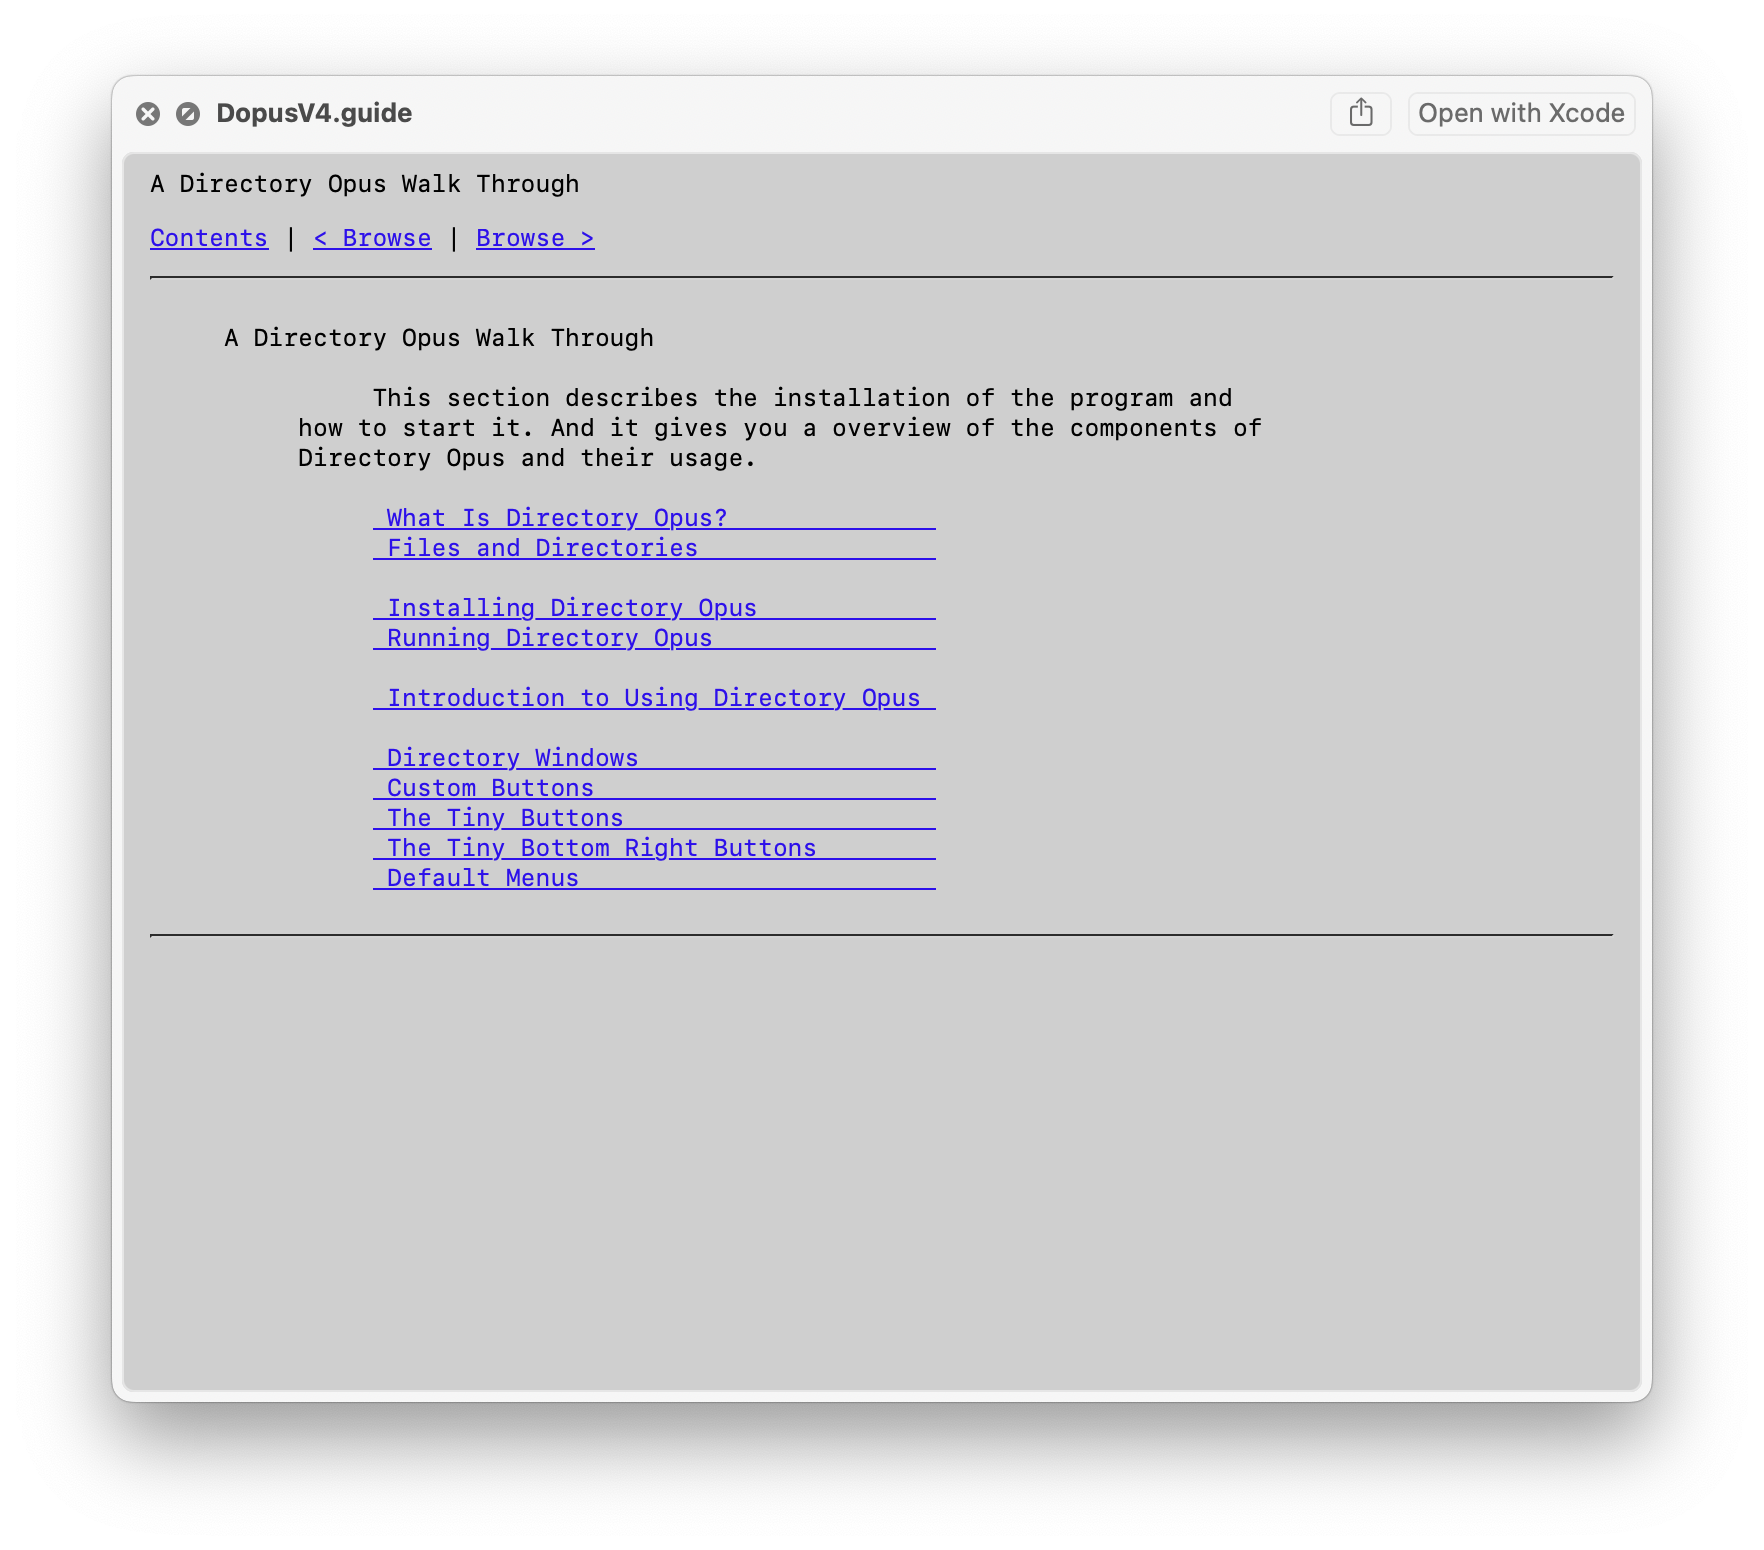
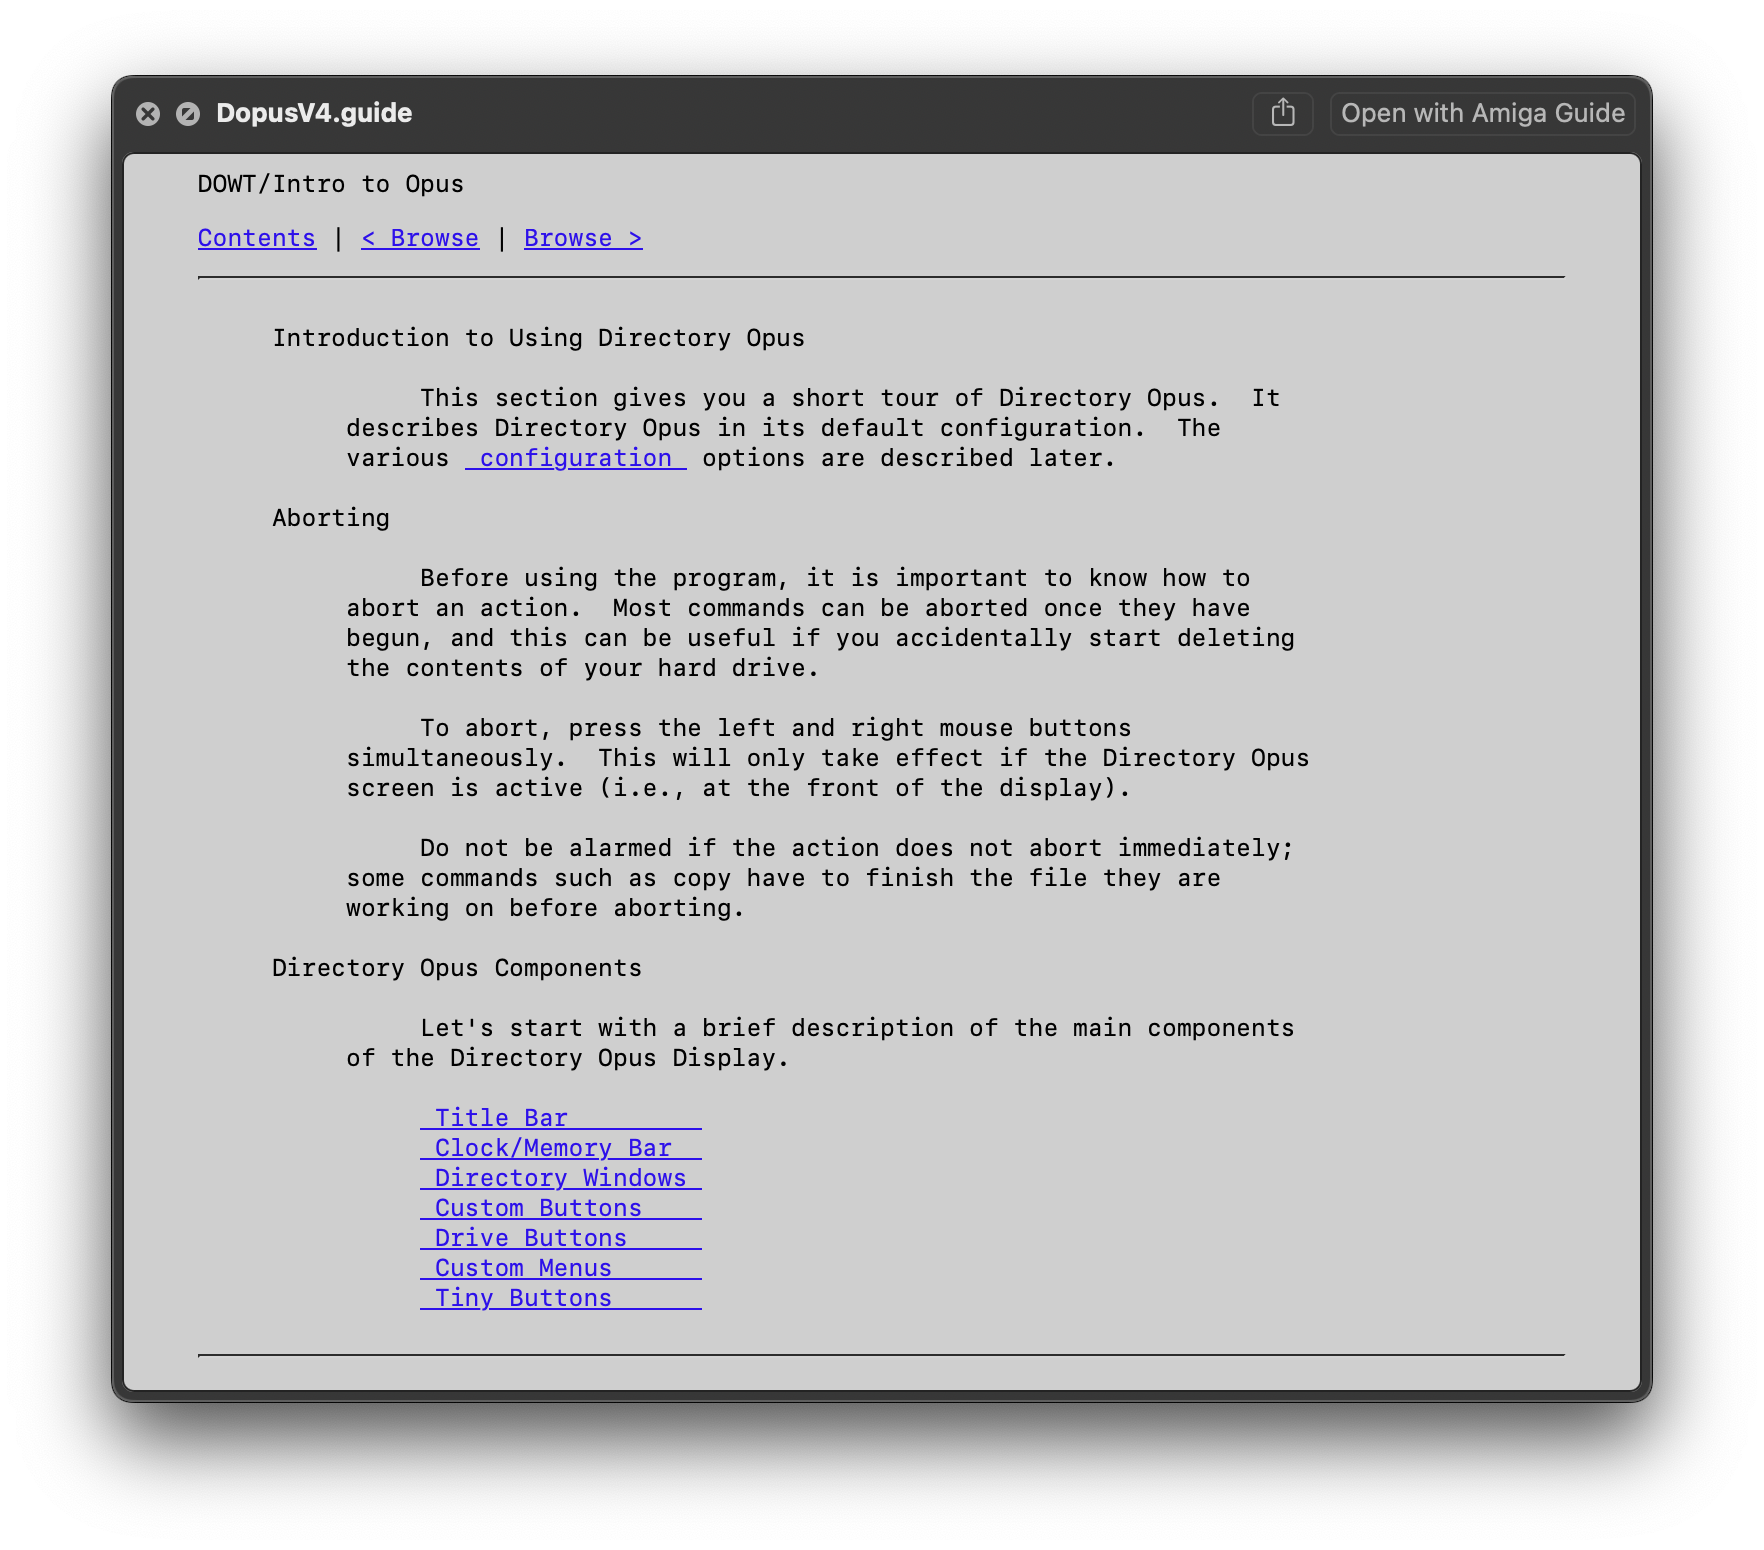
Draw Finder thumbnails as Amiga windows.
Declare public.image so Quick Look asks our generator, and re-sign
nested appexes when copying Debug builds to /Applications.

diff --git a/Shared/GuideThumbnail.swift b/Shared/GuideThumbnail.swift
@@ -1,0 +1,253 @@
+import AppKit
+import Foundation
+
+enum GuideThumbnail {
+    struct Preview {
+        var title: String
+        var rawLines: [String]
+
+        func lines(fontSize: CGFloat) -> [NSAttributedString] {
+            rawLines.map { GuideThumbnail.attributedLine($0, fontSize: fontSize) }
+        }
+    }
+
+    static func preview(fromGuideAt url: URL) -> Preview {
+        let text = firstChunk(at: url)
+        return preview(from: text, fallbackTitle: url.deletingPathExtension().lastPathComponent)
+    }
+
+    static func preview(from text: String, fallbackTitle: String) -> Preview {
+        var title = fallbackTitle
+        var rawLines: [String] = []
+        var inNode = false
+        for rawLine in text.split(omittingEmptySubsequences: false, whereSeparator: \.isNewline) {
+            var line = String(rawLine)
+            if line.hasSuffix("\r") { line.removeLast() }
+            let trimmed = line.trimmingCharacters(in: .whitespaces)
+            let lower = trimmed.lowercased()
+            if lower.hasPrefix("@node ") {
+                if inNode { break }
+                title = nodeTitle(from: trimmed) ?? title
+                inNode = true
+                continue
+            }
+            if inNode, lower.hasPrefix("@endnode") { break }
+            guard inNode else { continue }
+            if trimmed.hasPrefix("@"), !trimmed.hasPrefix("@{") { continue }
+            rawLines.append(line)
+        }
+        while rawLines.first?.trimmingCharacters(in: .whitespaces).isEmpty == true {
+            rawLines.removeFirst()
+        }
+        if rawLines.count > 16 {
+            rawLines = Array(rawLines.prefix(16))
+        }
+        return Preview(title: title, rawLines: rawLines)
+    }
+
+    static func draw(_ preview: Preview, in size: CGSize) {
+        guard size.width > 1, size.height > 1 else { return }
+        if NSGraphicsContext.current?.isFlipped != true {
+            let transform = NSAffineTransform()
+            transform.translateX(by: 0, yBy: size.height)
+            transform.scaleX(by: 1, yBy: -1)
+            transform.concat()
+        }
+
+        let s = min(size.width, size.height)
+        let window = NSRect(origin: .zero, size: size)
+        let bevel = max(1, (s / 128).rounded())
+        fillBevelled(window, fill: NSColor(calibratedRed: 0.81, green: 0.81, blue: 0.81, alpha: 1), bevel: bevel, raised: true)
+
+        let inner = window.insetBy(dx: bevel, dy: bevel)
+        let titleBarHeight = max(9, min(26, (s * 0.08).rounded()))
+        let titleBar = NSRect(x: inner.minX, y: inner.minY, width: inner.width, height: titleBarHeight)
+        NSColor(calibratedRed: 0.0, green: 0.33, blue: 0.67, alpha: 1).setFill()
+        titleBar.fill()
+
+        let gadgetPad = max(1, (bevel * 0.75).rounded(.up))
+        let gadget = max(6, titleBarHeight - gadgetPad * 2)
+        if gadget <= titleBar.height - 1 {
+            let close = NSRect(x: titleBar.minX + gadgetPad, y: titleBar.minY + gadgetPad, width: gadget, height: gadget)
+            drawCloseGadget(close, bevel: max(1, bevel * 0.6))
+            let depth = NSRect(x: titleBar.maxX - gadgetPad - gadget, y: titleBar.minY + gadgetPad, width: gadget, height: gadget)
+            drawDepthGadget(depth, bevel: max(1, bevel * 0.6))
+        }
+
+        let titleFontSize = max(7, titleBarHeight * 0.58)
+        let titleFont = NSFont.monospacedSystemFont(ofSize: titleFontSize, weight: .semibold)
+        let titlePad = gadget + gadgetPad * 3
+        let titleRect = NSRect(
+            x: titleBar.minX + titlePad,
+            y: titleBar.minY,
+            width: max(0, titleBar.width - titlePad * 2),
+            height: titleBarHeight
+        )
+        let titleStyle = NSMutableParagraphStyle()
+        titleStyle.alignment = .left
+        titleStyle.lineBreakMode = .byTruncatingTail
+        let titleAttrs: [NSAttributedString.Key: Any] = [
+            .font: titleFont,
+            .foregroundColor: NSColor.white,
+            .paragraphStyle: titleStyle
+        ]
+        let titleBounds = (preview.title as NSString).boundingRect(
+            with: titleRect.size,
+            options: .usesLineFragmentOrigin,
+            attributes: titleAttrs
+        )
+        var titleDraw = titleRect
+        titleDraw.origin.y += max(0, (titleRect.height - titleBounds.height) / 2)
+        drawUpright(NSAttributedString(string: preview.title, attributes: titleAttrs), in: titleDraw)
+
+        NSColor(calibratedWhite: 0, alpha: 0.35).setFill()
+        NSRect(x: inner.minX, y: titleBar.maxY, width: inner.width, height: 1).fill()
+
+        let body = NSRect(
+            x: inner.minX,
+            y: titleBar.maxY + 1,
+            width: inner.width,
+            height: max(0, inner.maxY - titleBar.maxY - 1)
+        )
+        guard body.height > 12, s >= 72 else { return }
+
+        let fontSize = max(6, min(12, body.width / 22))
+        let lines = preview.lines(fontSize: fontSize)
+        let leading = fontSize * 1.22
+        var y = body.minY + max(3, bevel * 2)
+        let x = body.minX + max(3, bevel * 2)
+        let width = body.width - max(6, bevel * 4)
+        for line in lines {
+            if y + leading > body.maxY - 2 { break }
+            let rect = NSRect(x: x, y: y, width: width, height: leading)
+            drawUpright(line, in: rect)
+            y += leading
+        }
+    }
+
+    static func nodeTitle(from line: String) -> String? {
+        if let start = line.firstIndex(of: "\""),
+           let end = line[line.index(after: start)...].firstIndex(of: "\"") {
+            let title = String(line[line.index(after: start)..<end])
+                .trimmingCharacters(in: .whitespaces)
+            return title.isEmpty ? nil : title
+        }
+        var rest = line
+        if let at = rest.range(of: "@node ", options: .caseInsensitive) {
+            rest = String(rest[at.upperBound...])
+        }
+        rest = rest.trimmingCharacters(in: .whitespaces)
+        return rest.split(whereSeparator: \.isWhitespace).first.map(String.init)
+    }
+}
+
+private extension GuideThumbnail {
+    static func firstChunk(at url: URL) -> String {
+        guard let handle = try? FileHandle(forReadingFrom: url) else { return "" }
+        defer { try? handle.close() }
+        let data = handle.readData(ofLength: 16_384)
+        return String(data: data, encoding: .isoLatin1)
+            ?? String(decoding: data, as: UTF8.self)
+    }
+
+    static func attributedLine(_ line: String, fontSize: CGFloat) -> NSAttributedString {
+        let font = NSFont.monospacedSystemFont(ofSize: fontSize, weight: .regular)
+        let bold = NSFont.monospacedSystemFont(ofSize: fontSize, weight: .semibold)
+        let linkColor = NSColor(calibratedRed: 0.0, green: 0.0, blue: 0.73, alpha: 1)
+        let result = NSMutableAttributedString()
+        var index = line.startIndex
+        var boldOn = false
+        var underlineOn = false
+
+        func attrs(link: Bool = false) -> [NSAttributedString.Key: Any] {
+            var values: [NSAttributedString.Key: Any] = [
+                .font: boldOn ? bold : font,
+                .foregroundColor: link ? linkColor : NSColor.black
+            ]
+            if underlineOn || link {
+                values[.underlineStyle] = NSUnderlineStyle.single.rawValue
+            }
+            return values
+        }
+
+        while index < line.endIndex {
+            if line[index...].hasPrefix("@{") {
+                if let close = line[index...].firstIndex(of: "}") {
+                    let innerStart = line.index(index, offsetBy: 2)
+                    let inner = String(line[innerStart..<close])
+                    index = line.index(after: close)
+                    if inner.hasPrefix("\"") {
+                        var label = inner.dropFirst()
+                        if let endQuote = label.firstIndex(of: "\"") {
+                            label = label[..<endQuote]
+                        }
+                        let text = label.trimmingCharacters(in: .whitespaces)
+                        if !text.isEmpty {
+                            result.append(NSAttributedString(string: text, attributes: attrs(link: true)))
+                        }
+                    } else {
+                        switch inner.trimmingCharacters(in: .whitespaces).lowercased() {
+                        case "b": boldOn = true
+                        case "ub": boldOn = false
+                        case "u": underlineOn = true
+                        case "uu": underlineOn = false
+                        default: break
+                        }
+                    }
+                    continue
+                }
+            }
+            result.append(NSAttributedString(string: String(line[index]), attributes: attrs()))
+            index = line.index(after: index)
+        }
+        return result
+    }
+
+    static func drawUpright(_ attributed: NSAttributedString, in rect: NSRect) {
+        NSGraphicsContext.saveGraphicsState()
+        let transform = NSAffineTransform()
+        transform.translateX(by: 0, yBy: rect.maxY)
+        transform.scaleX(by: 1, yBy: -1)
+        transform.concat()
+        attributed.draw(
+            with: NSRect(x: rect.minX, y: 0, width: rect.width, height: rect.height),
+            options: [.usesLineFragmentOrigin, .truncatesLastVisibleLine]
+        )
+        NSGraphicsContext.restoreGraphicsState()
+    }
+
+    static func fillBevelled(_ rect: NSRect, fill: NSColor, bevel: CGFloat, raised: Bool) {
+        fill.setFill()
+        rect.fill()
+        let light = NSColor(calibratedWhite: 1, alpha: raised ? 0.75 : 0.2)
+        let dark = NSColor(calibratedWhite: 0, alpha: raised ? 0.45 : 0.15)
+        let top = raised ? light : dark
+        let bottom = raised ? dark : light
+        let t = bevel
+        top.setFill()
+        NSRect(x: rect.minX, y: rect.minY, width: rect.width, height: t).fill()
+        NSRect(x: rect.minX, y: rect.minY, width: t, height: rect.height).fill()
+        bottom.setFill()
+        NSRect(x: rect.minX, y: rect.maxY - t, width: rect.width, height: t).fill()
+        NSRect(x: rect.maxX - t, y: rect.minY, width: t, height: rect.height).fill()
+    }
+
+    static func drawCloseGadget(_ rect: NSRect, bevel: CGFloat) {
+        fillBevelled(rect, fill: NSColor(calibratedRed: 0.81, green: 0.81, blue: 0.81, alpha: 1), bevel: bevel, raised: true)
+        let inner = rect.insetBy(dx: rect.width * 0.28, dy: rect.height * 0.28)
+        NSColor(calibratedWhite: 0.15, alpha: 0.8).setStroke()
+        let path = NSBezierPath(rect: inner)
+        path.lineWidth = max(1, bevel)
+        path.stroke()
+    }
+
+    static func drawDepthGadget(_ rect: NSRect, bevel: CGFloat) {
+        let fill = NSColor(calibratedRed: 0.81, green: 0.81, blue: 0.81, alpha: 1)
+        let back = rect.offsetBy(dx: rect.width * 0.18, dy: rect.height * 0.18)
+            .insetBy(dx: rect.width * 0.08, dy: rect.height * 0.08)
+        fillBevelled(back, fill: fill, bevel: bevel, raised: true)
+        let front = rect.insetBy(dx: rect.width * 0.12, dy: rect.height * 0.12)
+            .offsetBy(dx: -rect.width * 0.06, dy: -rect.height * 0.06)
+        fillBevelled(front, fill: fill, bevel: bevel, raised: true)
+    }
+}

diff --git a/AmigaGuideThumbnails/ThumbnailProvider.swift b/AmigaGuideThumbnails/ThumbnailProvider.swift
@@ -7,49 +7,16 @@ final class ThumbnailProvider: QLThumbnailProvider {
         _ handler: @escaping (QLThumbnailReply?, Error?) -> Void
     ) {
         let fileURL = request.fileURL
-        let maxSize = request.maximumSize
-
         guard GuideMLConverter.looksLikeAmigaGuide(at: fileURL) else {
             handler(nil, CocoaError(.fileReadCorruptFile))
             return
         }
-        let title = Self.title(from: fileURL) ?? fileURL.deletingPathExtension().lastPathComponent
-        let size = CGSize(
-            width: min(maxSize.width, 256),
-            height: min(maxSize.height, 256)
-        )
+        let side = min(request.maximumSize.width, request.maximumSize.height, 512)
+        let size = CGSize(width: max(16, side), height: max(16, side))
+        let preview = GuideThumbnail.preview(fromGuideAt: fileURL)
         handler(QLThumbnailReply(contextSize: size, currentContextDrawing: {
-            Self.draw(title: title, in: size)
+            GuideThumbnail.draw(preview, in: size)
             return true
         }), nil)
-    }
-
-    private static func title(from url: URL) -> String? {
-        guard let handle = try? FileHandle(forReadingFrom: url) else { return nil }
-        defer { try? handle.close() }
-        let data = handle.readData(ofLength: 4096)
-        let text = String(data: data, encoding: .isoLatin1) ?? ""
-        for rawLine in text.split(whereSeparator: \.isNewline) {
-            let line = rawLine.trimmingCharacters(in: .whitespaces)
-            guard line.lowercased().hasPrefix("@node ") else { continue }
-            if let start = line.firstIndex(of: "\""),
-               let end = line[line.index(after: start)...].firstIndex(of: "\"") {
-                return String(line[line.index(after: start)..<end])
-            }
-            let rest = line.dropFirst(6).trimmingCharacters(in: .whitespaces)
-            return rest.split(separator: " ").first.map(String.init)
-        }
-        return nil
-    }
-
-    private static func draw(title: String, in size: CGSize) {
-        NSColor(calibratedRed: 0.81, green: 0.81, blue: 0.81, alpha: 1).setFill()
-        NSRect(origin: .zero, size: size).fill()
-        let attrs: [NSAttributedString.Key: Any] = [
-            .font: NSFont.monospacedSystemFont(ofSize: max(9, size.width / 18), weight: .semibold),
-            .foregroundColor: NSColor.black,
-        ]
-        let rect = NSRect(x: 10, y: 10, width: size.width - 20, height: size.height - 20)
-        (title as NSString).draw(with: rect, options: [.usesLineFragmentOrigin, .usesFontLeading], attributes: attrs)
     }
 }

diff --git a/Shared/UTType+AmigaGuide.swift b/Shared/UTType+AmigaGuide.swift
@@ -3,8 +3,10 @@ import UniformTypeIdentifiers
 extension UTType {
     static let amigaGuide = UTType(exportedAs: "com.gingerbeardman.amigaguide")
 
-    /// Xcode owns `.guide` as this UTI, so Finder never assigns ours. We still
-    /// open and preview those files as an Alternate handler, sniffing `@database`.
+    /// Xcode owns `.guide` as `com.apple.documentation.guide`, so Finder often
+    /// assigns that UTI. We still open and preview those files as an Alternate
+    /// handler, sniffing `@database`. `public.image` is declared so Quick Look
+    /// will ask our thumbnail extension for an icon.
     static var appleDocumentationGuide: UTType? {
         UTType("com.apple.documentation.guide")
     }
